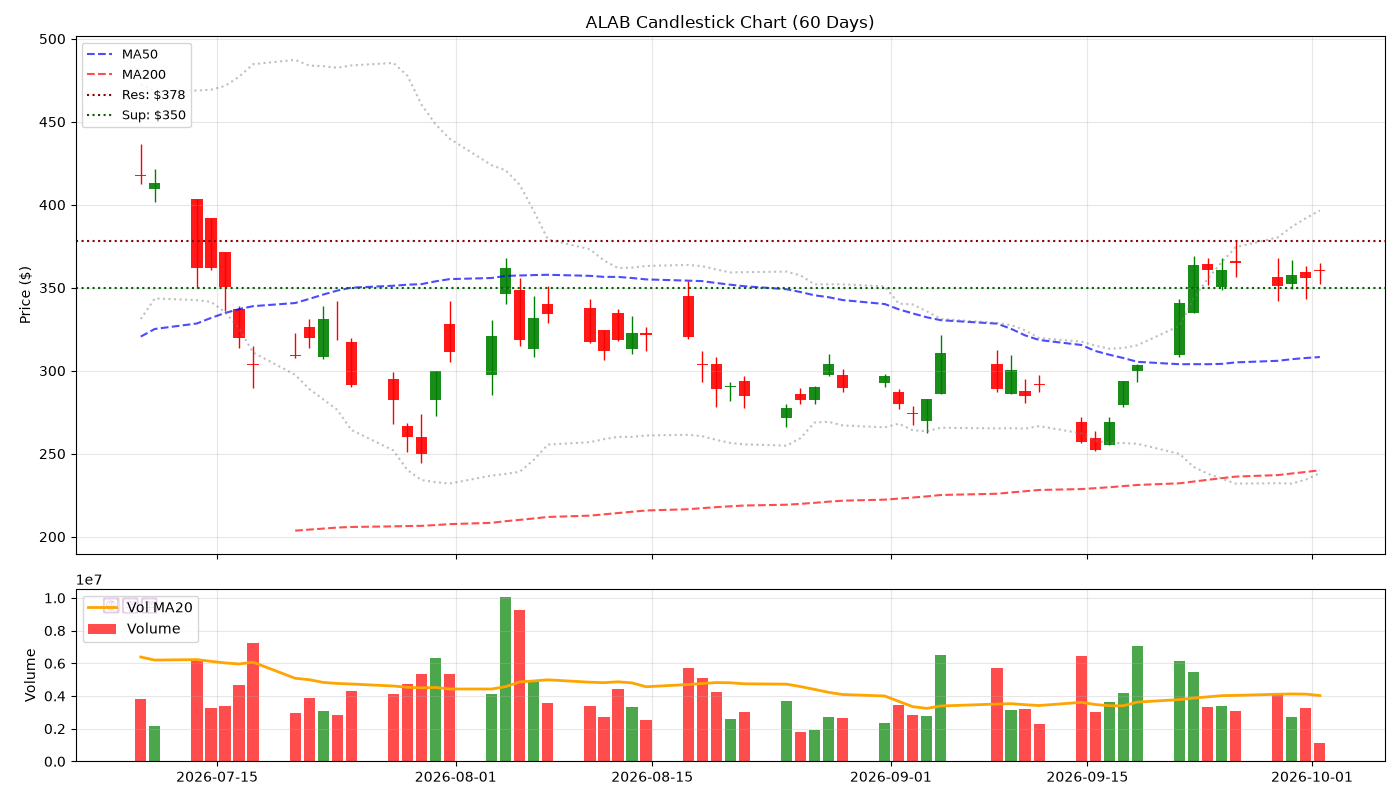
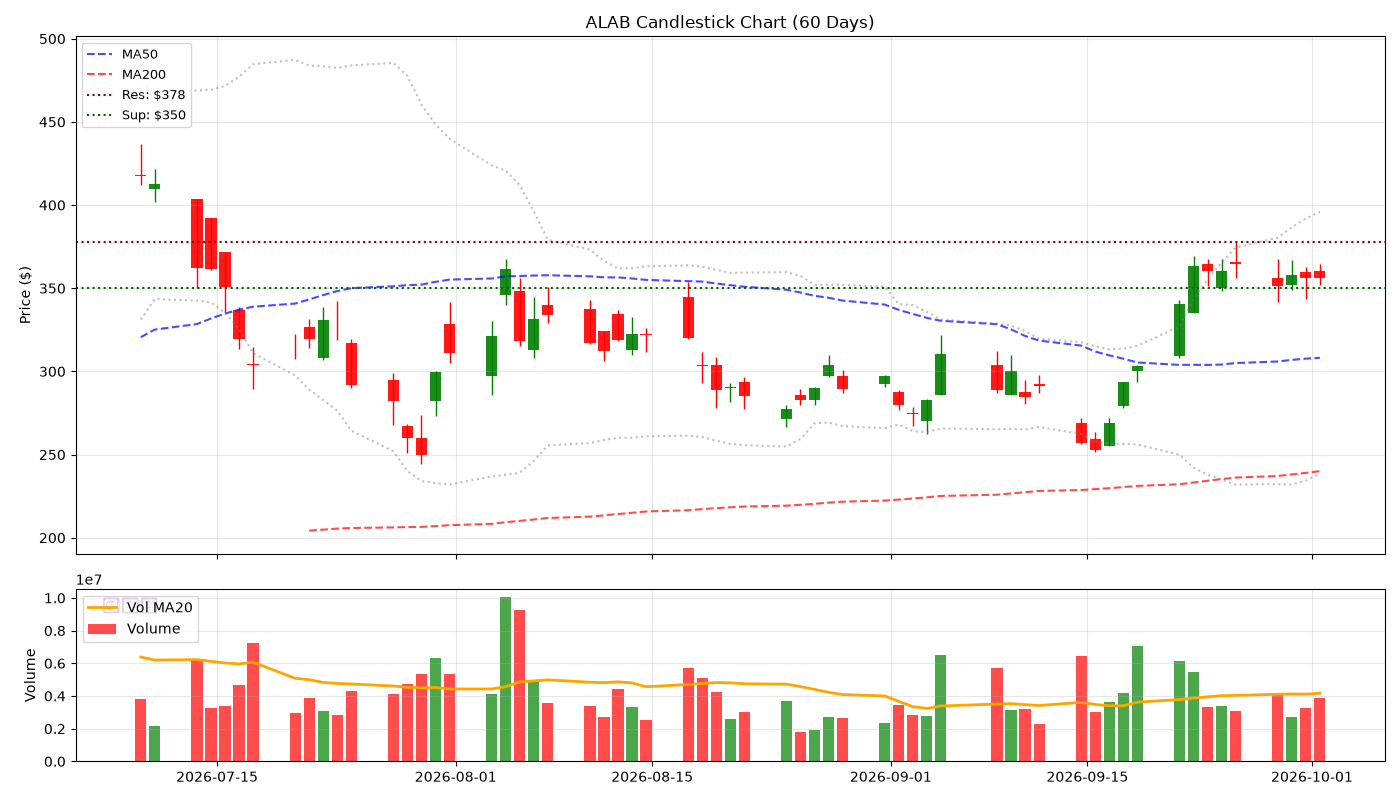
feat(v5): 2026-10-02 Candlestick

diff --git a/reports/2026-10-02.md b/reports/2026-10-02.md
@@ -1,0 +1,85 @@
+# 🕯 Hermes V5 陰陽燭專業日報 - 2026-10-02
+> **生成時間**: 2026-10-02 06:01:05 | **圖表**: 正宗陰陽燭 + Volume
+
+---
+
+## 📊 核心數據
+
+| 股票 | 價格 | 漲跌% | RSI | 成交量 | 阻力 | 支撐 |
+|------|------|-------|-----|--------|------|------|
+| SNDK | $1787.69 | +2.75% | 59.3 | 💧 | $1800 | $1504 |
+| MU | $1097.39 | +3.03% | 68.4 | 🔥 | $1100 | $903 |
+| SOXL | $153.69 | +3.94% | 65.5 | 💧 | $157 | $150 |
+| TSLA | $354.11 | -0.20% | 41.4 | 💧 | $387 | $350 |
+| APP | $281.31 | -3.14% | 30.1 | 🔥 | $300 | $275 |
+| NOW | $137.76 | +2.80% | 56.2 | 💧 | $148 | $127 |
+| CAT | $826.35 | +1.92% | 52.7 | 💧 | $834 | $800 |
+| AMAT | $529.30 | +3.50% | 73.3 | 💧 | $534 | $500 |
+| NOK | $10.37 | +2.27% | 41.1 | 💧 | $11 | $10 |
+| ALAB | $356.42 | +0.13% | 68.2 | 💧 | $378 | $350 |
+
+---
+
+## 📈 個股陰陽燭分析
+
+### SNDK ($1787.69, +2.75%)
+![Candlestick](../charts/SNDK.png)
+
+- **RSI**: 59.3 | **Vol**: NORMAL
+- **關鍵位**: 阻力 $1800.00 | 支撐 $1504.20
+
+### MU ($1097.39, +3.03%)
+![Candlestick](../charts/MU.png)
+
+- **RSI**: 68.4 | **Vol**: HIGH
+- **關鍵位**: 阻力 $1100.00 | 支撐 $902.60
+
+### SOXL ($153.69, +3.94%)
+![Candlestick](../charts/SOXL.png)
+
+- **RSI**: 65.5 | **Vol**: NORMAL
+- **關鍵位**: 阻力 $156.71 | 支撐 $150.00
+
+### TSLA ($354.11, -0.20%)
+![Candlestick](../charts/TSLA.png)
+
+- **RSI**: 41.4 | **Vol**: NORMAL
+- **關鍵位**: 阻力 $386.83 | 支撐 $350.00
+
+### APP ($281.31, -3.14%)
+![Candlestick](../charts/APP.png)
+
+- **RSI**: 30.1 | **Vol**: HIGH
+- **關鍵位**: 阻力 $300.00 | 支撐 $275.13
+
+### NOW ($137.76, +2.80%)
+![Candlestick](../charts/NOW.png)
+
+- **RSI**: 56.2 | **Vol**: NORMAL
+- **關鍵位**: 阻力 $147.57 | 支撐 $126.75
+
+### CAT ($826.35, +1.92%)
+![Candlestick](../charts/CAT.png)
+
+- **RSI**: 52.7 | **Vol**: NORMAL
+- **關鍵位**: 阻力 $833.62 | 支撐 $800.00
+
+### AMAT ($529.30, +3.50%)
+![Candlestick](../charts/AMAT.png)
+
+- **RSI**: 73.3 | **Vol**: NORMAL
+- **關鍵位**: 阻力 $533.88 | 支撐 $500.00
+
+### NOK ($10.37, +2.27%)
+![Candlestick](../charts/NOK.png)
+
+- **RSI**: 41.1 | **Vol**: NORMAL
+- **關鍵位**: 阻力 $11.17 | 支撐 $9.54
+
+### ALAB ($356.42, +0.13%)
+![Candlestick](../charts/ALAB.png)
+
+- **RSI**: 68.2 | **Vol**: NORMAL
+- **關鍵位**: 阻力 $377.87 | 支撐 $350.00
+
+*Generated by Hermes Agent V5 (Candlestick Pro)*

diff --git a/index.md b/index.md
@@ -1,12 +1,12 @@
 # 🌍 Hermes V5 陰陽燭情報中心
-> **更新**: 2026-10-01 23:00:38
+> **更新**: 2026-10-02 06:01:05
 
 | 股票 | 價格 | 漲跌% | RSI | Vol |
 |------|------|-------|-----|-----|
-| SNDK | $1730.89 | -0.52% | 56.2 | 💤 |
-| MU | $1041.93 | -2.18% | 60.3 | 💤 |
-| SOXL | $148.70 | +0.57% | 63.7 | 💤 |
-| TSLA | $358.99 | +1.18% | 45.4 | 💤 |
-| APP | $282.43 | -2.75% | 30.5 | 💤 |
+| SNDK | $1787.69 | +2.75% | 59.3 | 💤 |
+| MU | $1097.39 | +3.03% | 68.4 | 🔥 |
+| SOXL | $153.69 | +3.94% | 65.5 | 💤 |
+| TSLA | $354.11 | -0.20% | 41.4 | 💤 |
+| APP | $281.31 | -3.14% | 30.1 | 🔥 |
 
-📖 [查看完整陰陽燭報告](reports/2026-10-01.md)
+📖 [查看完整陰陽燭報告](reports/2026-10-02.md)
